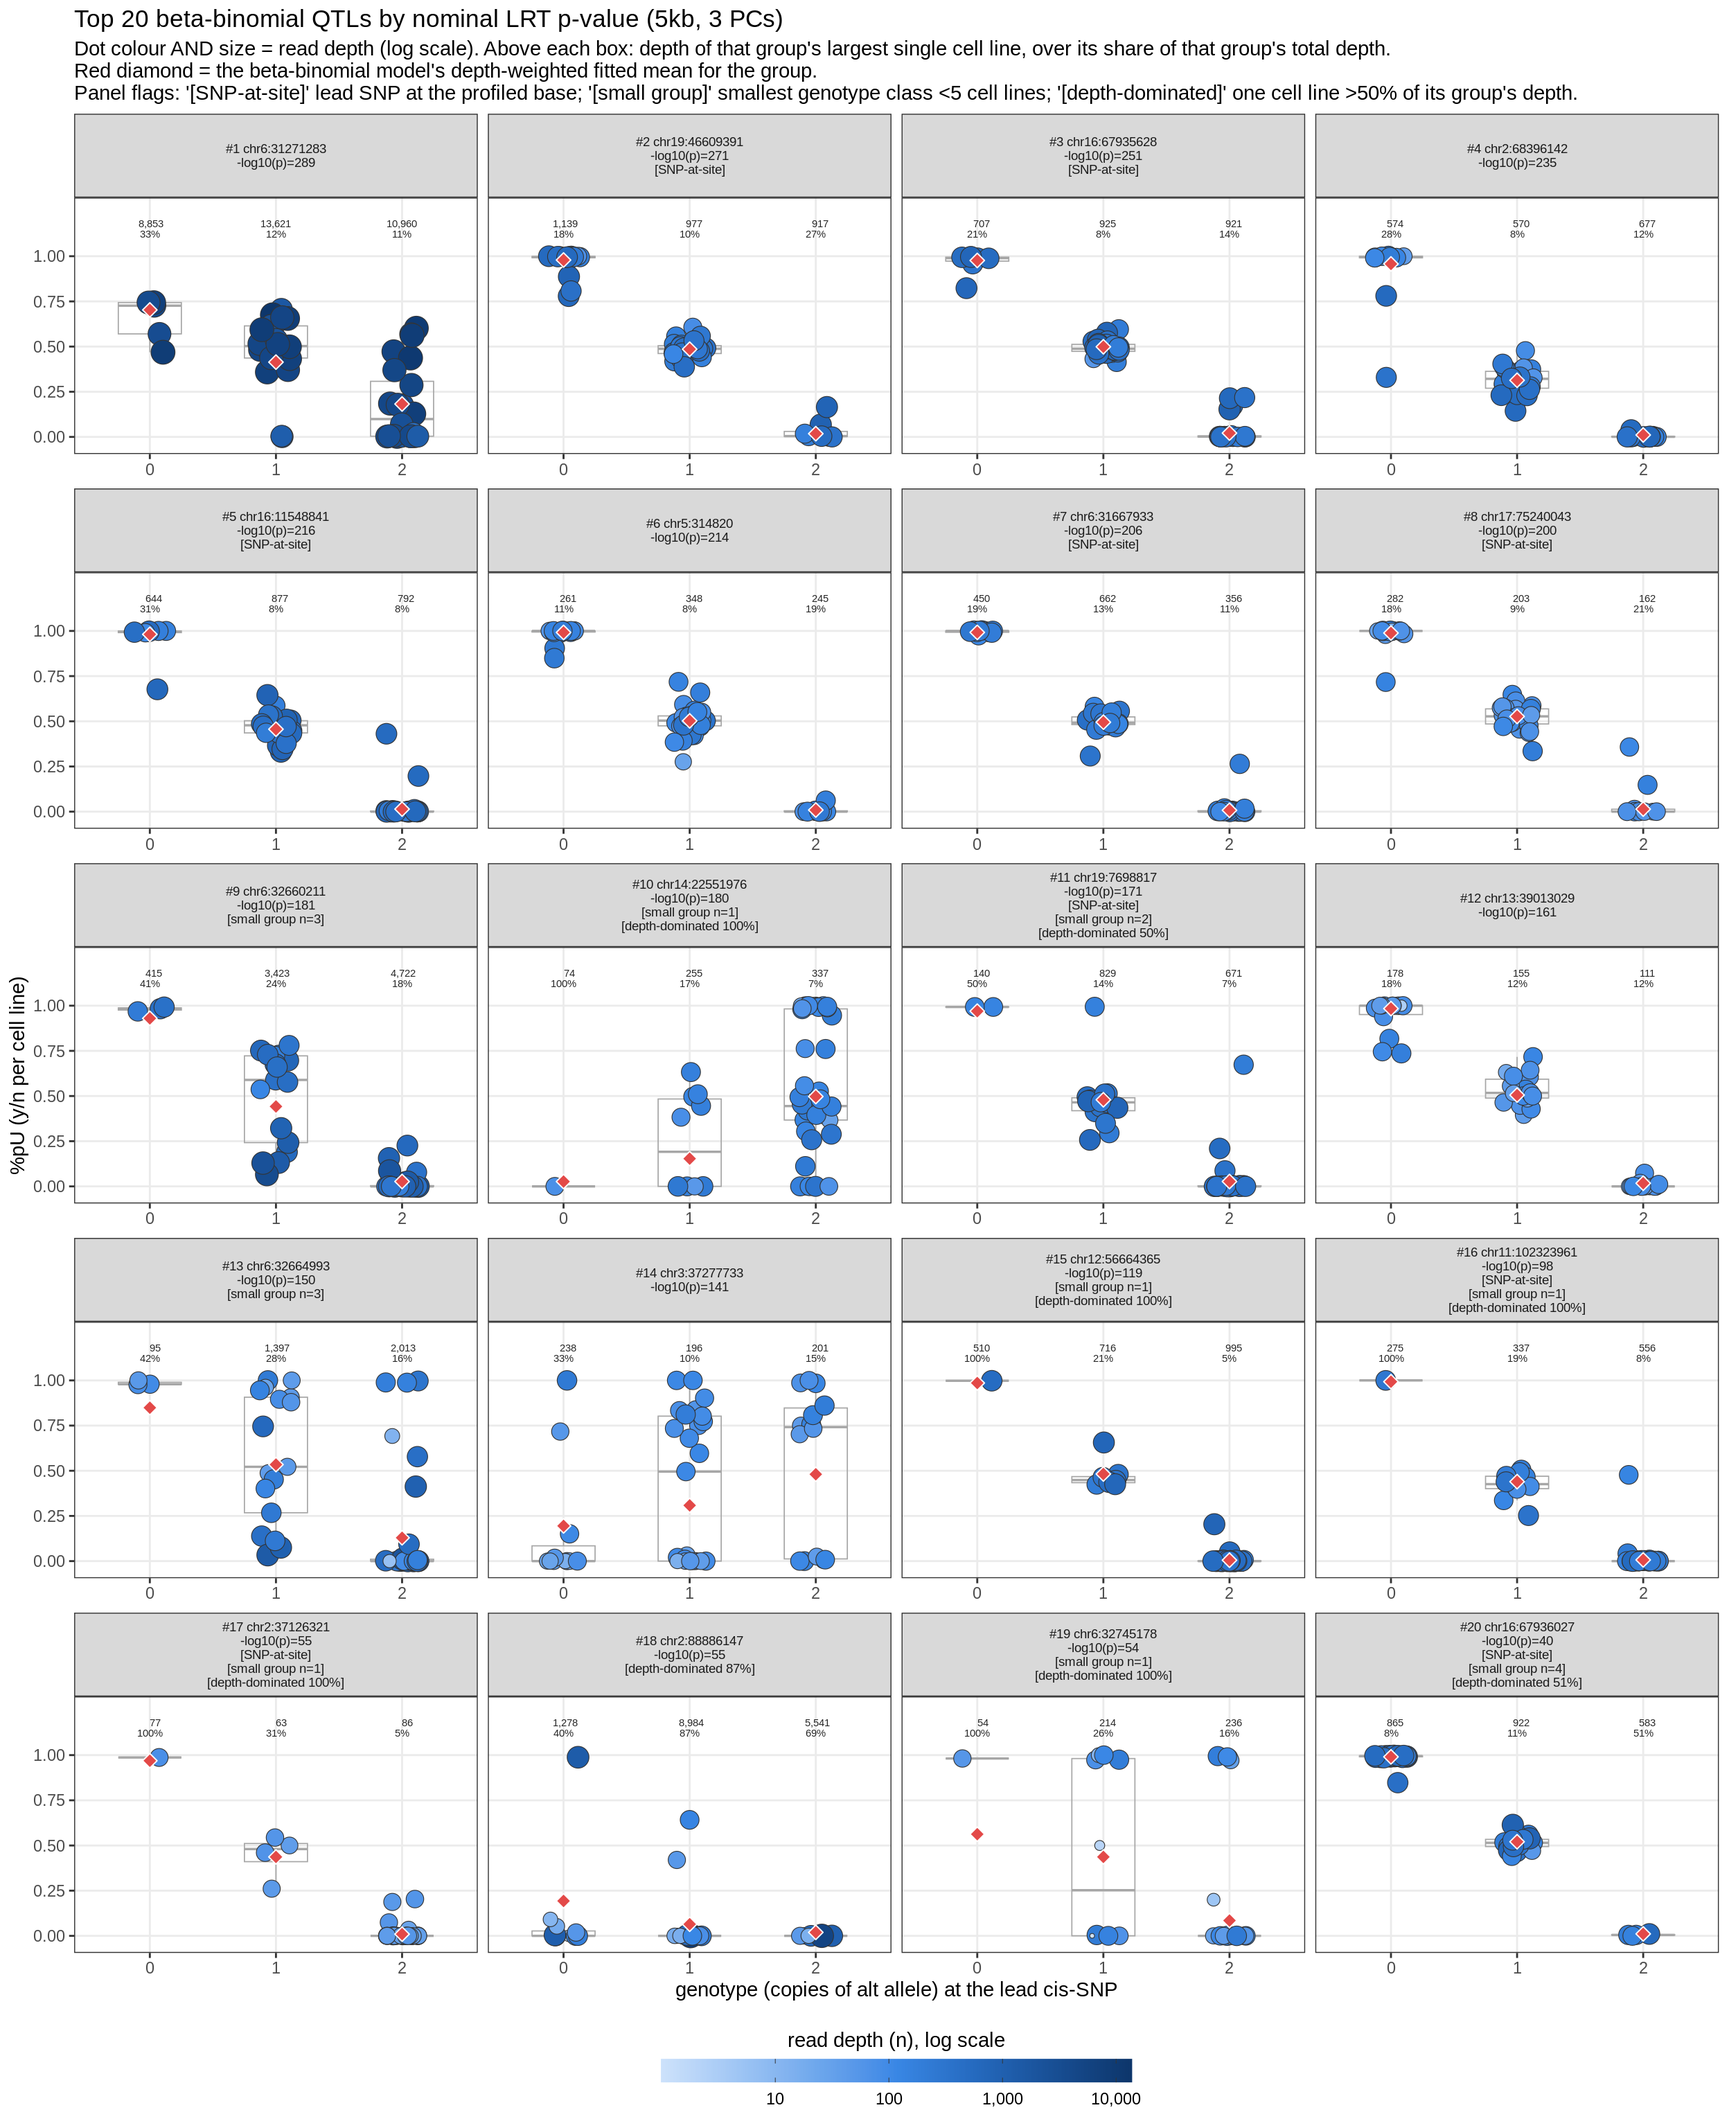
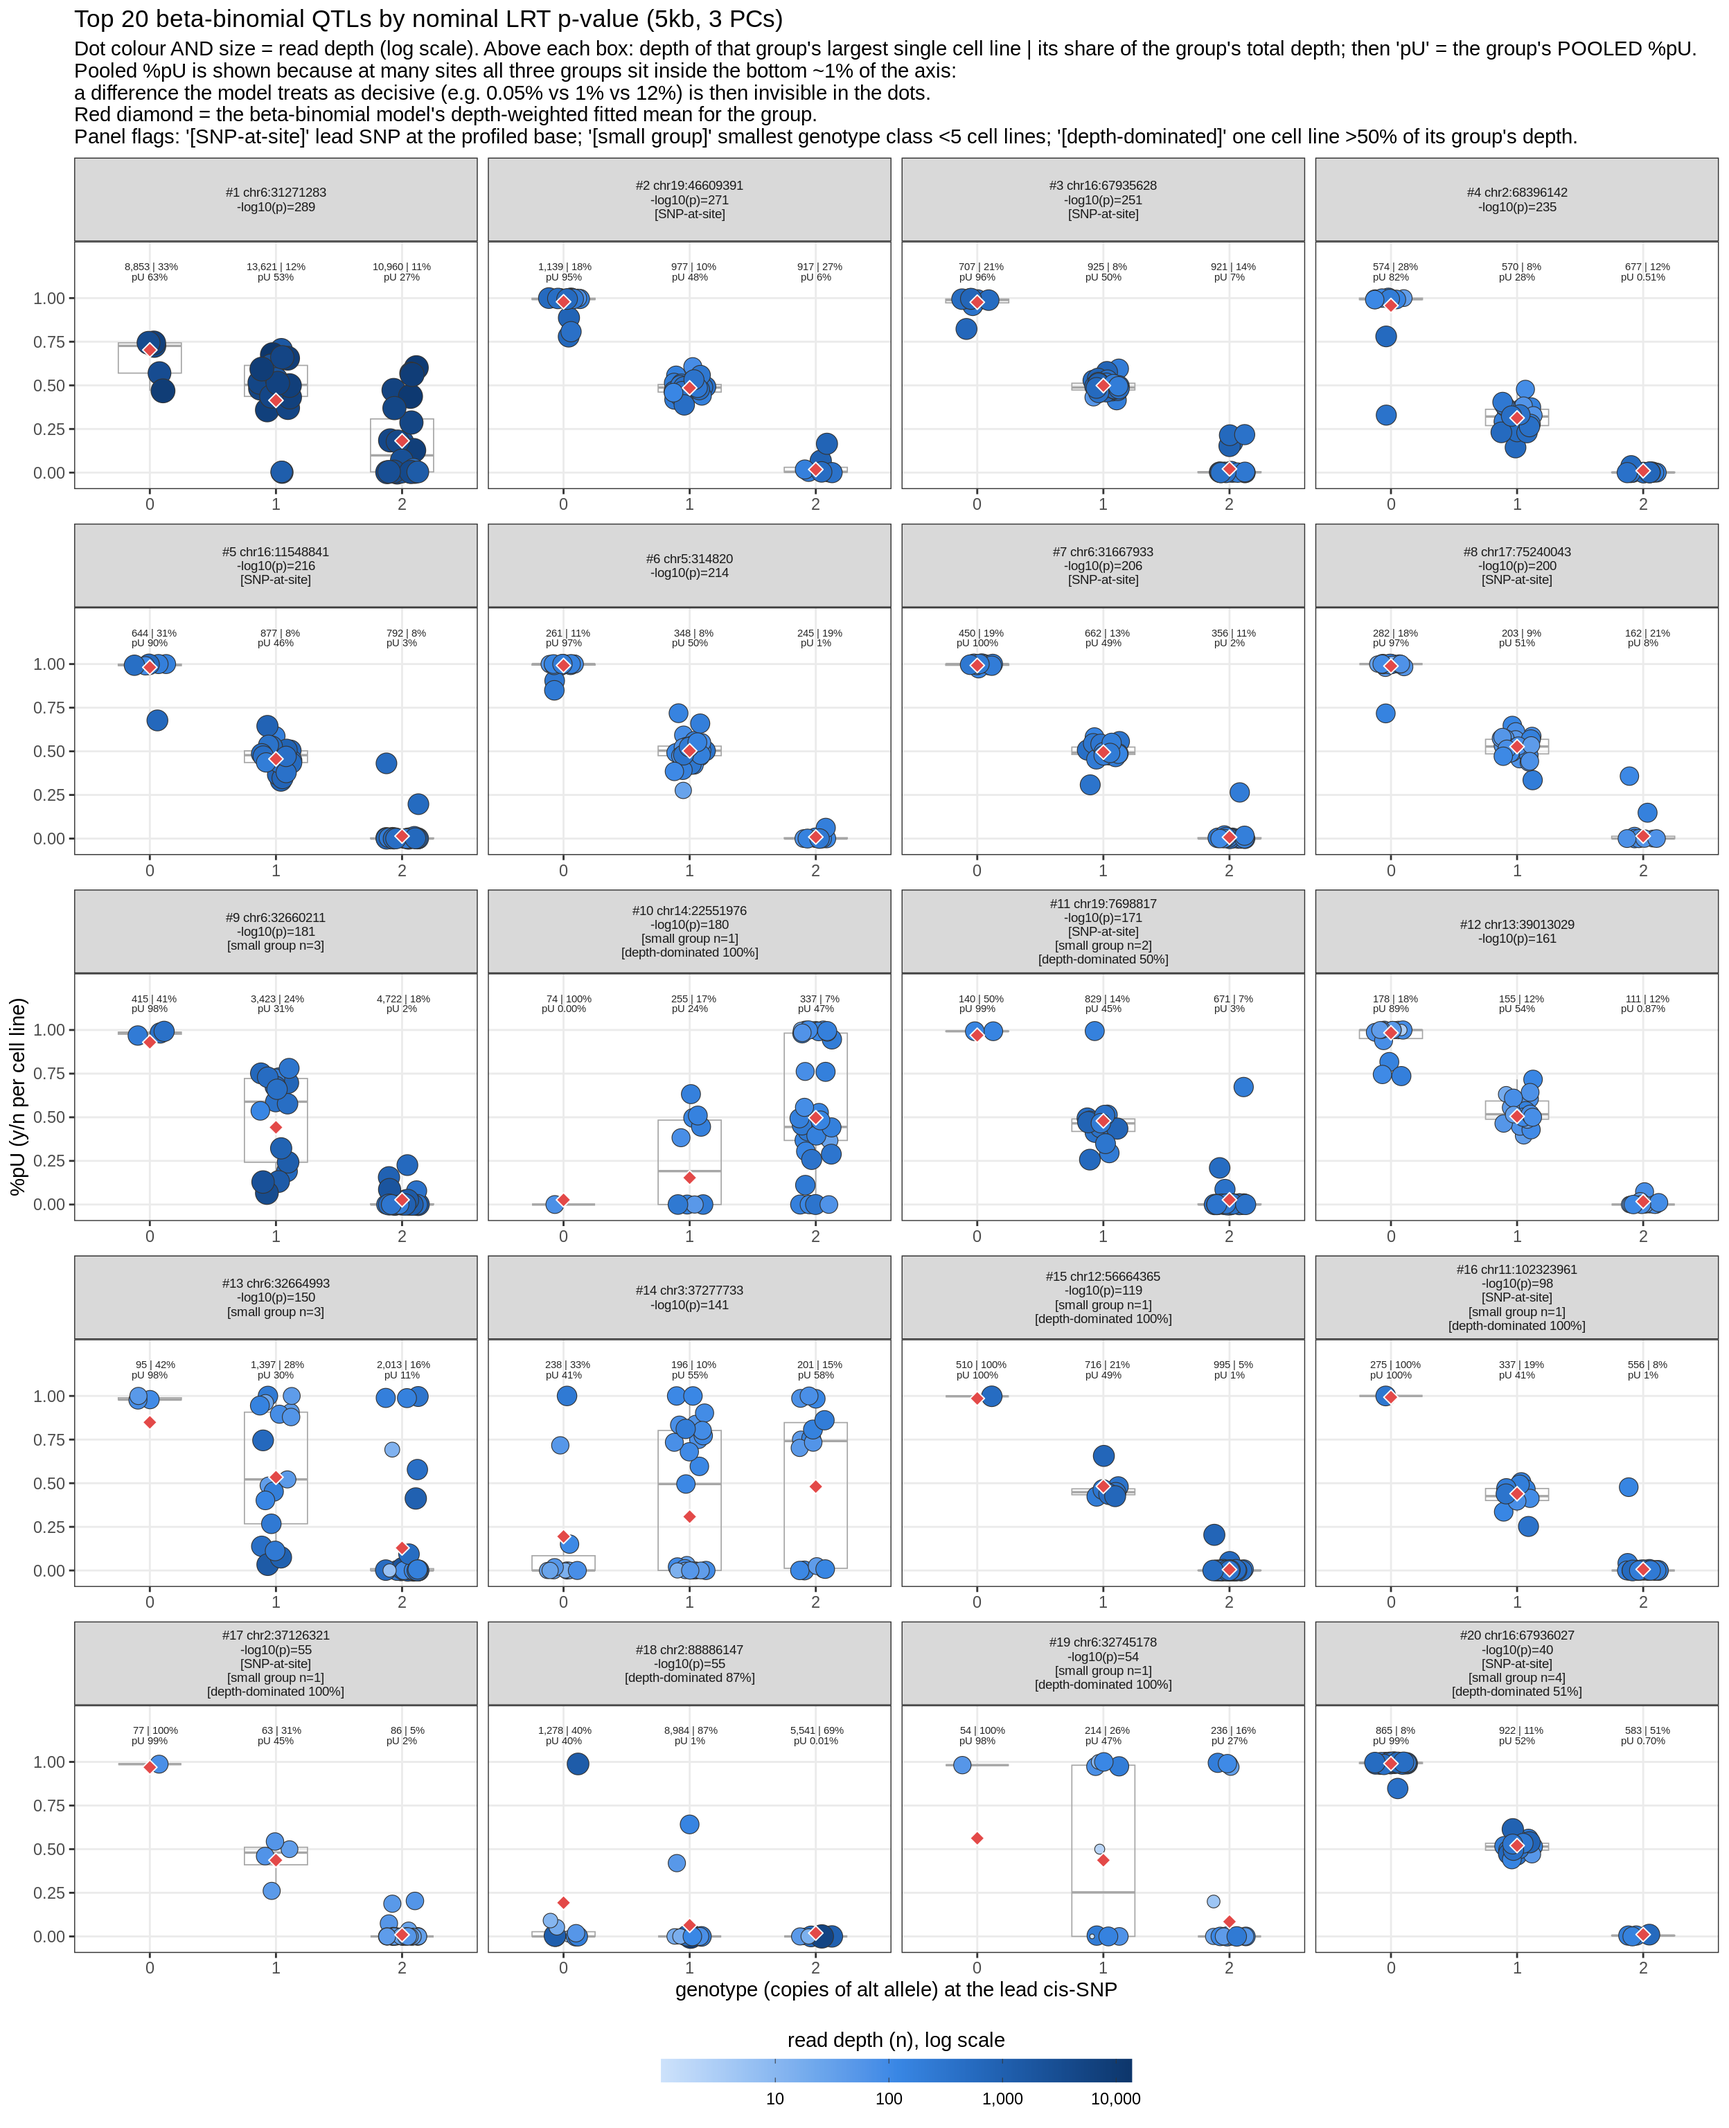
update

diff --git a/docs/qtl_mapping_betabinomial_diagnostic.html b/docs/qtl_mapping_betabinomial_diagnostic.html
@@ -537,15 +537,15 @@ project makes it easier to run your code on other machines.</p>
 <div class="panel panel-default">
 <div class="panel-heading">
 <p class="panel-title">
-<a data-toggle="collapse" data-parent="#workflowr-checks" href="#strongRepositoryversionstrongahrefhttpsgithubcomxsun1229pumseqtree4d561fd4ac2999cb9dfcfd2f697006f6e7575e9btargetblank4d561fda">
+<a data-toggle="collapse" data-parent="#workflowr-checks" href="#strongRepositoryversionstrongahrefhttpsgithubcomxsun1229pumseqtree7bb5ccd1008ac5ae37315e4b13e82c6167ef17c3targetblank7bb5ccda">
 <span class="glyphicon glyphicon-ok text-success"
 aria-hidden="true"></span> <strong>Repository version:</strong>
-<a href="https://github.com/xsun1229/pumseq/tree/4d561fd4ac2999cb9dfcfd2f697006f6e7575e9b" target="_blank">4d561fd</a>
+<a href="https://github.com/xsun1229/pumseq/tree/7bb5ccd1008ac5ae37315e4b13e82c6167ef17c3" target="_blank">7bb5ccd</a>
 </a>
 </p>
 </div>
 <div
[2 lines of base64/hex data omitted]
 class="panel-collapse collapse">
 <div class="panel-body">
 <p>
@@ -555,7 +555,7 @@ reproducibility.
 </p>
 <p>
 The results in this page were generated with repository version
-<a href="https://github.com/xsun1229/pumseq/tree/4d561fd4ac2999cb9dfcfd2f697006f6e7575e9b" target="_blank">4d561fd</a>.
+<a href="https://github.com/xsun1229/pumseq/tree/7bb5ccd1008ac5ae37315e4b13e82c6167ef17c3" target="_blank">7bb5ccd</a>.
 See the <em>Past versions</em> tab to see a history of the changes made
 to the R Markdown and HTML files.
 </p>
@@ -620,6 +620,40 @@ Message
 </tr>
 </thead>
 <tbody>
+<tr>
+<td>
+Rmd
+</td>
+<td>
+<a href="https://github.com/xsun1229/pumseq/blob/7bb5ccd1008ac5ae37315e4b13e82c6167ef17c3/analysis/qtl_mapping_betabinomial_diagnostic.Rmd" target="_blank">7bb5ccd</a>
+</td>
+<td>
+XSun
+</td>
+<td>
+2026-08-10
+</td>
+<td>
+update
+</td>
+</tr>
+<tr>
+<td>
+html
+</td>
+<td>
+<a href="https://rawcdn.githack.com/xsun1229/pumseq/7bb5ccd1008ac5ae37315e4b13e82c6167ef17c3/docs/qtl_mapping_betabinomial_diagnostic.html" target="_blank">7bb5ccd</a>
+</td>
+<td>
+XSun
+</td>
+<td>
+2026-08-10
+</td>
+<td>
+update
+</td>
+</tr>
 <tr>
 <td>
 Rmd
@@ -1270,8 +1304,17 @@ plot_top_panels &lt;- function(dt, title, subtitle, xlab, ylab) {
   dt &lt;- copy(dt)[is.finite(pi)]
   dt[, log_n := log10(pmax(n, 1))]
   dw  &lt;- dt[!is.na(mu_fit), .(dw_mean = sum(mu_fit * n) / sum(n)), by = .(site_lab, g)]
-  ann &lt;- dt[, .(max_n = max(n), share = max(n) / sum(n)), by = .(site_lab, g)]
-  ann[, lab := sprintf(&quot;%s\n%.0f%%&quot;, format(max_n, big.mark = &quot;,&quot;), 100 * share)]
+  # Annotation carries BOTH the depth story and the group&#39;s pooled %pU.
+  # The pooled rate matters because at many top sites every group sits within
+  # the bottom ~1% of the 0-1 axis (e.g. 0.05% vs 1.0% vs 12.3%): a real,
+  # hugely &quot;significant&quot; difference to the model that is simply invisible
+  # when plotted, which is why some panels look like they have no trend.
+  ann &lt;- dt[, .(max_n = max(n), share = max(n) / sum(n),
+                pooled = sum(y) / sum(n)), by = .(site_lab, g)]
+  ann[, lab := sprintf(&quot;%s | %.0f%%\npU %s&quot;,
+                       format(max_n, big.mark = &quot;,&quot;), 100 * share,
+                       fifelse(pooled &gt;= 0.01, sprintf(&quot;%.0f%%&quot;, 100 * pooled),
+                                               sprintf(&quot;%.2f%%&quot;, 100 * pooled)))]
 
   ggplot(dt, aes(x = g, y = pi)) +
     geom_boxplot(aes(group = g), outlier.shape = NA, width = 0.5,
@@ -1308,8 +1351,12 @@ plot_top_panels &lt;- function(dt, title, subtitle, xlab, ylab) {
 # the right edge of the device rather than flowing onto a second line.
 PANEL_SUB &lt;- paste(
   &quot;Dot colour AND size = read depth (log scale).&quot;,
-  &quot;Above each box: depth of that group&#39;s largest single cell line, over its&quot;,
-  &quot;share of that group&#39;s total depth.&quot;,
+  &quot;Above each box: depth of that group&#39;s largest single cell line | its share&quot;,
+  &quot;of the group&#39;s total depth; then &#39;pU&#39; = the group&#39;s POOLED %pU.&quot;,
+  &quot;\nPooled %pU is shown because at many sites all three groups sit inside the&quot;,
+  &quot;bottom ~1% of the axis:&quot;,
+  &quot;\na difference the model treats as decisive (e.g. 0.05% vs 1% vs 12%) is then&quot;,
+  &quot;invisible in the dots.&quot;,
   &quot;\nRed diamond = the beta-binomial model&#39;s depth-weighted fitted mean for&quot;,
   &quot;the group.&quot;
 )</code></pre>
@@ -2338,81 +2385,10 @@ i.e. no enrichment at all.</p>
 <p>Why that matters: at 200+ reads per cell line the test has enormous
 power, so any small amount of between-sample variability the model does
 not account for is amplified into a very large test statistic. The
-permuted data show this directly — there no real association can exist,
-yet the chance of an extreme p-value still climbs steadily with
-depth:</p>
-<pre class="r"><code>p1d &lt;- merge(p1[, .(sid = paste(ref, pos),
-                    nlp = -log10(pmax(nominal_min_p, 1e-300)))], dep, by = &quot;sid&quot;)
-p1d[, decile := cut(rank(tot) / .N, seq(0, 1, 0.1), labels = 1:10,
-                    include.lowest = TRUE)]
-knitr::kable(p1d[, .(`Median total reads` = format(round(median(tot)), big.mark = &quot;,&quot;),
-                     `% of sites with -log10(p) &gt; 10` =
-                        sprintf(&quot;%.1f%%&quot;, 100 * mean(nlp &gt; 10))),
-                 by = .(`Depth decile` = decile)][order(`Depth decile`)],
-  caption = &quot;PERMUTED data (no real signal possible): extreme p-values concentrate in the deepest sites&quot;)</code></pre>
-<table>
-<caption>PERMUTED data (no real signal possible): extreme p-values
-concentrate in the deepest sites</caption>
-<thead>
-<tr class="header">
-<th align="left">Depth decile</th>
-<th align="left">Median total reads</th>
-<th align="left">% of sites with -log10(p) &gt; 10</th>
-</tr>
-</thead>
-<tbody>
-<tr class="odd">
-<td align="left">1</td>
-<td align="left">116</td>
-<td align="left">0.0%</td>
-</tr>
-<tr class="even">
-<td align="left">2</td>
-<td align="left">180</td>
-<td align="left">0.0%</td>
-</tr>
-<tr class="odd">
-<td align="left">3</td>
-<td align="left">256</td>
-<td align="left">0.0%</td>
-</tr>
-<tr class="even">
-<td align="left">4</td>
-<td align="left">360</td>
-<td align="left">0.0%</td>
-</tr>
-<tr class="odd">
-<td align="left">5</td>
-<td align="left">506</td>
-<td align="left">0.0%</td>
-</tr>
-<tr class="even">
-<td align="left">6</td>
-<td align="left">692</td>
-<td align="left">0.0%</td>
-</tr>
-<tr class="odd">
-<td align="left">7</td>
-<td align="left">984</td>
-<td align="left">0.0%</td>
-</tr>
-<tr class="even">
-<td align="left">8</td>
-<td align="left">1,524</td>
-<td align="left">0.2%</td>
-</tr>
-<tr class="odd">
-<td align="left">9</td>
-<td align="left">2,747</td>
-<td align="left">0.5%</td>
-</tr>
-<tr class="even">
-<td align="left">10</td>
-<td align="left">9,072</td>
-<td align="left">1.8%</td>
-</tr>
-</tbody>
-</table>
+permuted data confirm this directly: with no real association possible,
+the chance of an extreme p-value still rises steadily with site depth,
+from ~0% in the shallowest tenth of sites to ~2% in the deepest
+tenth.</p>
 <p>So the extreme p-values track sequencing depth, not genotype — which
 is why the same sites reappear at the top however the data are
 shuffled.</p>
